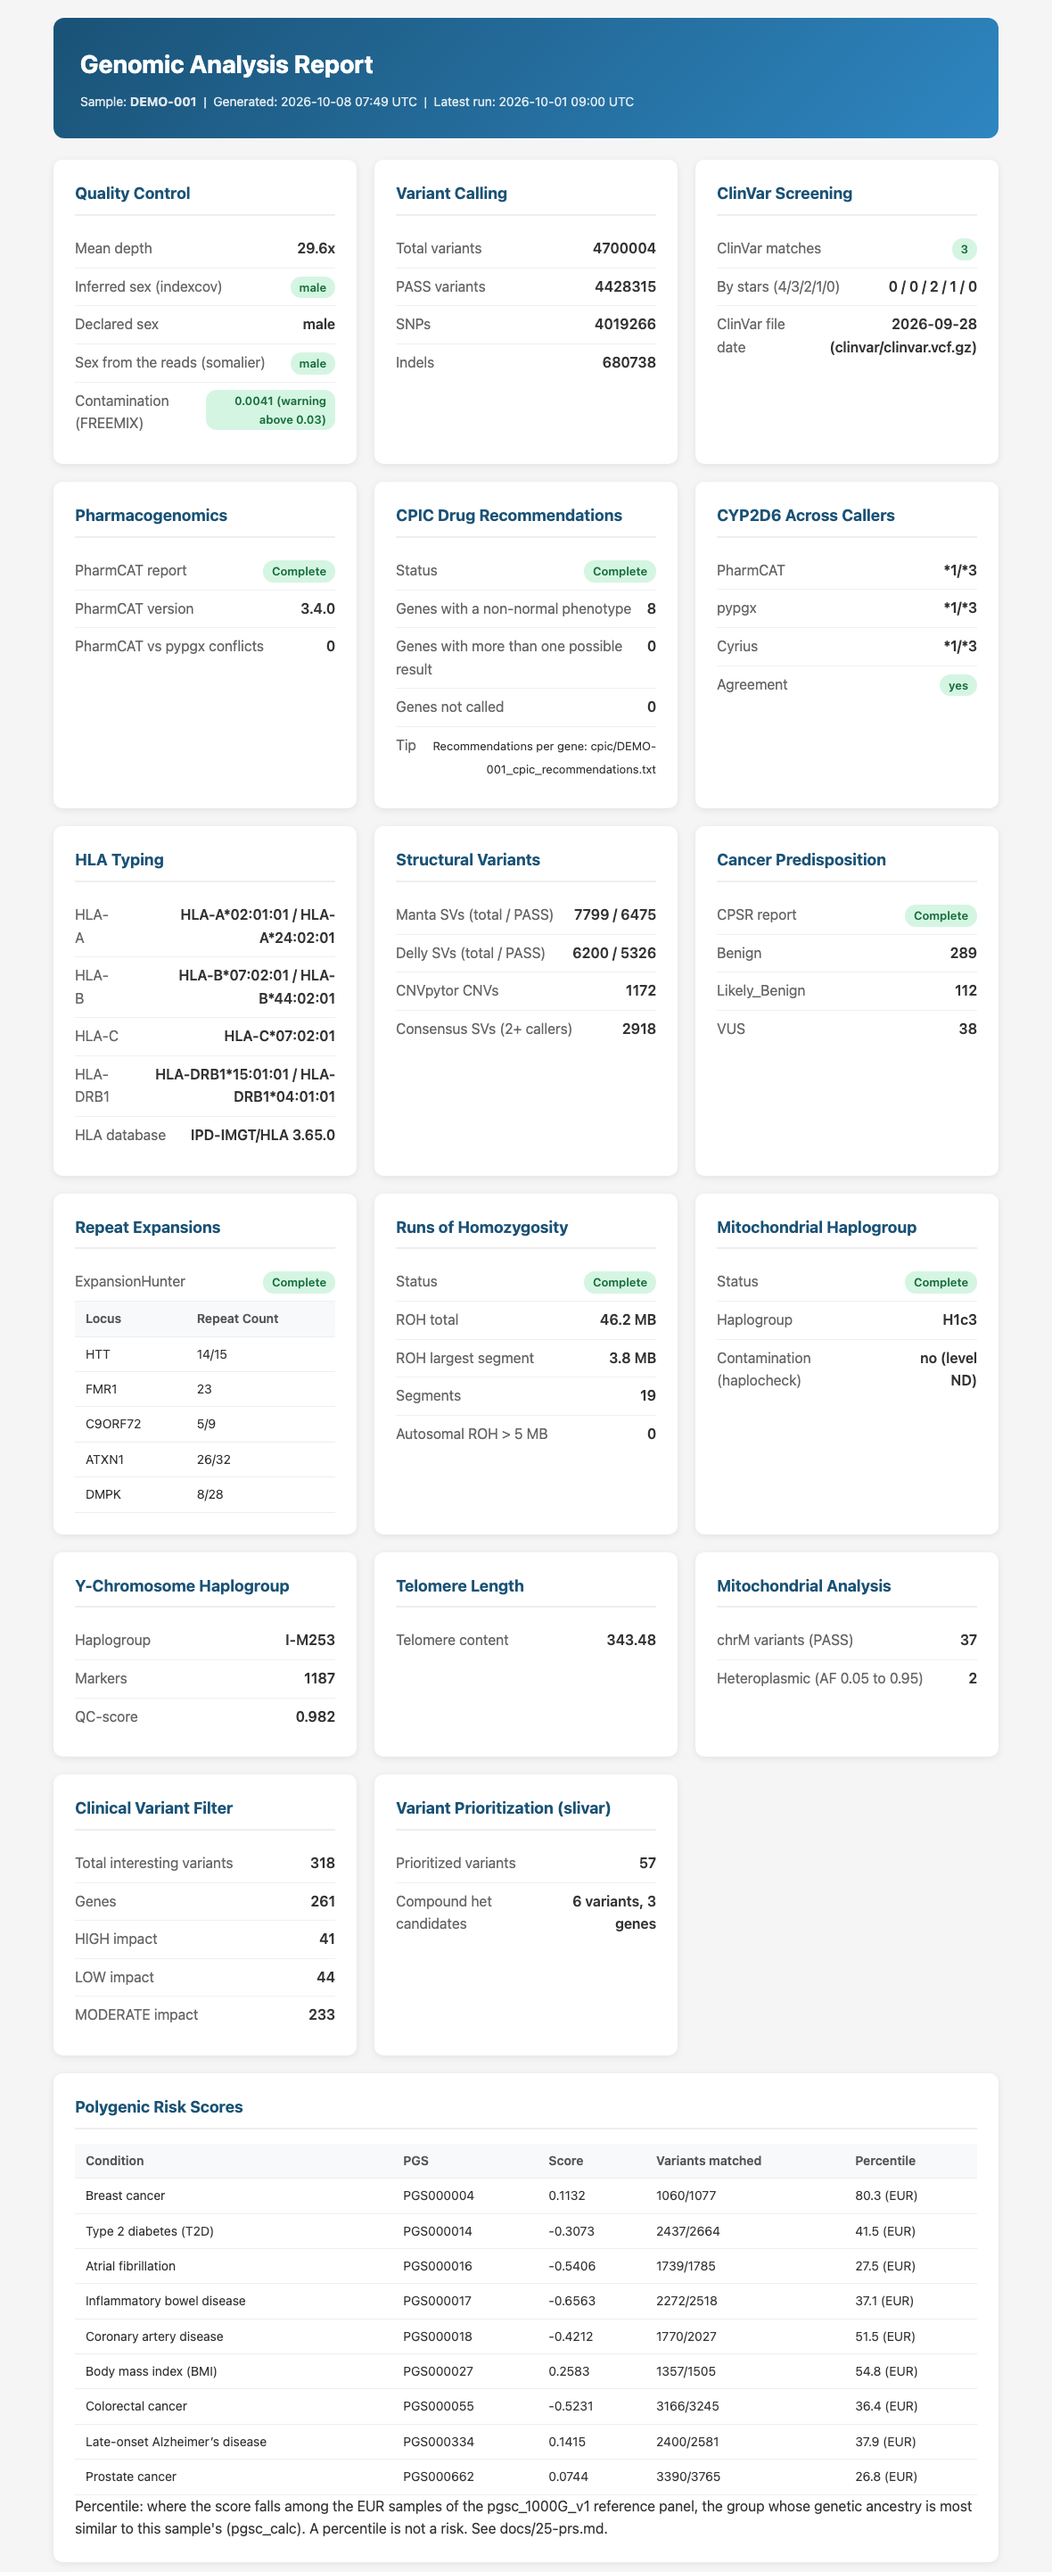
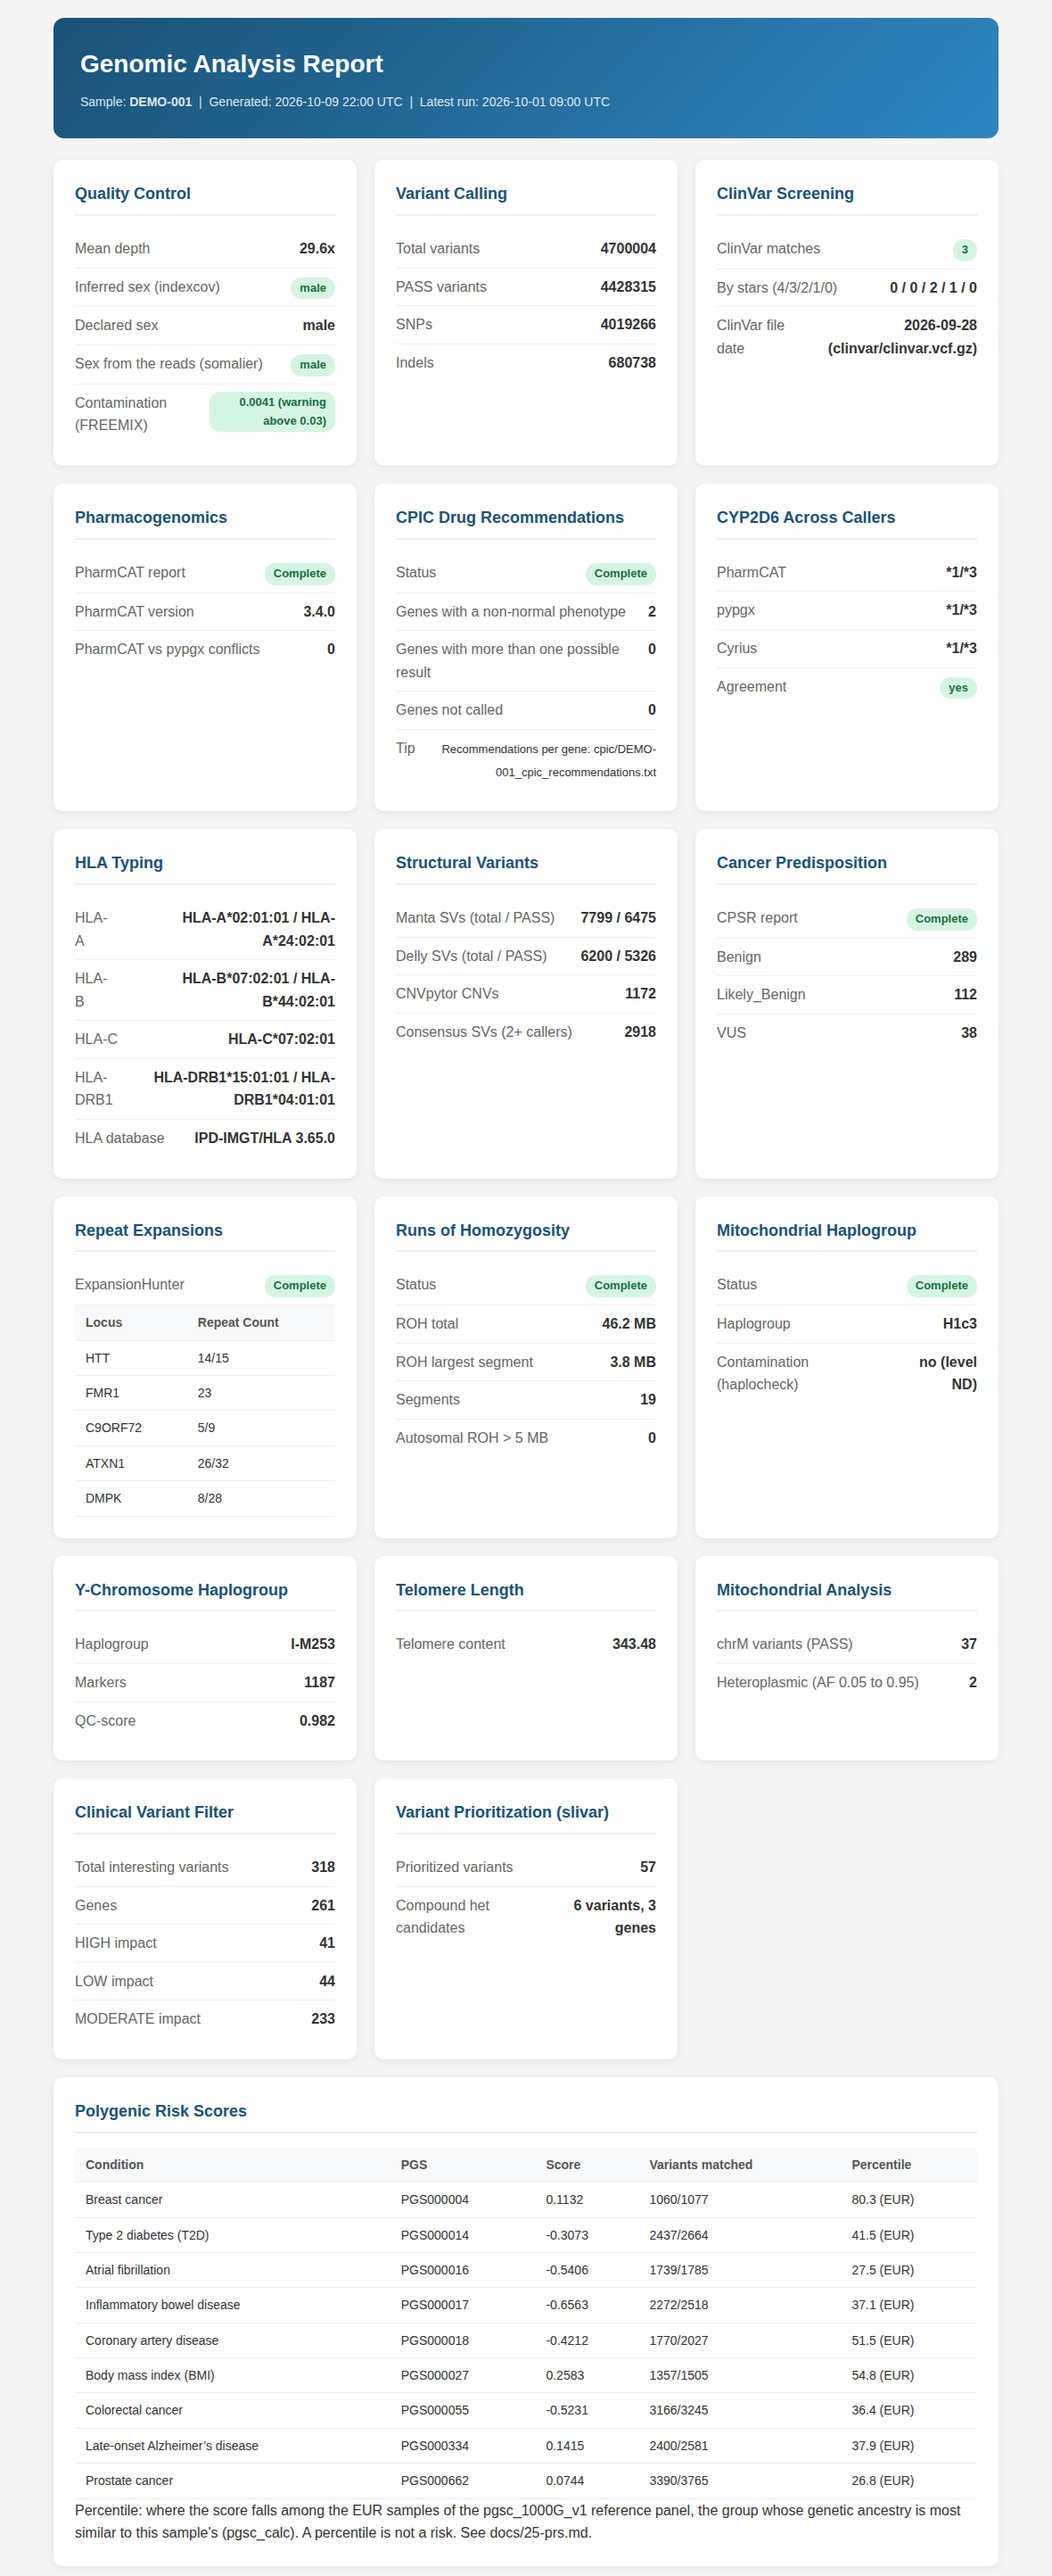
docs(report): name the fifth CPIC status and retake the DEMO-001 pictures with the current count (#110)
The report pictures for the invented DEMO-001 sample were older than the CPIC parser: the CPIC card showed 8 non-normal genes where the parser now counts 2, and CLAUDE.md named only four of the five gene statuses.
A new Demo pictures workflow retakes the three pictures on a GitHub-hosted runner and uploads them as an artifact; the retake script now retries image pulls and can install Chromium's Linux libraries.
The pictures are retaken from that workflow, the caption no longer warns that the count is outdated, and CLAUDE.md names unclassified as the fifth status.

diff --git a/CLAUDE.md b/CLAUDE.md
@@ -153,7 +153,7 @@ Change its line in `versions.env`, plus the coupled data variable its comment na
 ### PharmCAT 3.x (pinned: 3.4.0)
 - **Two-step workflow**: Preprocessor (`pharmcat_vcf_preprocessor` with `-refFna`) then main jar (`pharmcat.jar`). NOTE: since 3.0 the preprocessor script lost its `.py` extension and the Python package was renamed `preprocessor` → `pcat`. The old `-refFasta` flag is long gone.
 - Preprocessor outputs `.preprocessed.vcf.bgz` (NOT `.vcf`).
-- **3.x JSON changes vs 2.15.x**: `wildtypeAllele` → `referenceAllele`; the HTML report is **no longer emitted unless `-reporterHtml` is passed explicitly**. The `genes` map may be flat (`{gene -> data}`) or nested (`{source -> {gene -> data}}`). `sourceDiplotypes` (or `recommendationDiplotypes`) carry `allele1`/`allele2` objects with a `.name`. Both CPIC consumers (`scripts/27-cpic-lookup.sh` and `modules/local/cpic_lookup`) run one parser, `bin/pgx_parse.py`: it **auto-detects both shapes**, gives each gene a status (`normal`, `non-normal`, `ambiguous` when the possible diplotypes have different phenotypes, `not called`) and **fails loud**: a recognized report yielding zero genes is reported as a parse failure, never "all genes were successfully called". Guarded by `tests/test_cpic_parser.py` on real 3.2.0 and 3.4.0 reports of the HG002 fixture, `tests/fixtures/pharmcat/report-<version>.json`.
+- **3.x JSON changes vs 2.15.x**: `wildtypeAllele` → `referenceAllele`; the HTML report is **no longer emitted unless `-reporterHtml` is passed explicitly**. The `genes` map may be flat (`{gene -> data}`) or nested (`{source -> {gene -> data}}`). `sourceDiplotypes` (or `recommendationDiplotypes`) carry `allele1`/`allele2` objects with a `.name`. Both CPIC consumers (`scripts/27-cpic-lookup.sh` and `modules/local/cpic_lookup`) run one parser, `bin/pgx_parse.py`: it **auto-detects both shapes**, gives each gene a status (`normal`, `non-normal`, `ambiguous` when the possible diplotypes have different phenotypes, `not called`, `unclassified` when a called gene's phenotype says neither normal nor changed function, listed without drug guidance and not counted) and **fails loud**: a recognized report yielding zero genes is reported as a parse failure, never "all genes were successfully called". Guarded by `tests/test_cpic_parser.py` on real 3.2.0 and 3.4.0 reports of the HG002 fixture, `tests/fixtures/pharmcat/report-<version>.json`.
 - Pipeline pinned to **3.4.0** (3.4.0 still bundles vcf-parser 0.3.1, so the `##` header rewrite in step 7 and the module stays). Before bumping, revalidate steps 7 and 27 end-to-end against a known sample — JSON structure and preprocessor flags change between major versions — and capture the new version's `report.json` as a parser fixture beside the others (a row in the test's `REAL_REPORTS`).
 
 ### pgsc_calc (PRS and ancestry, steps 25 and 26)

diff --git a/docs/24-html-report.md b/docs/24-html-report.md
@@ -64,7 +64,7 @@ A step that is skipped or fails leaves the previous run's output on disk. When `
 
 <figure markdown="span">
   ![The step 24 HTML report: a header with the sample name, seventeen cards of counts and statuses, then the polygenic risk scores table](images/demo-html-report.png){ loading=lazy }
-  <figcaption>The report for DEMO-001, an invented sample. Every number is made up. The picture stops above the CPIC gene table, so the tables that list genes (the CPIC genes and the ClinVar hits) and the disclaimer are not shown. The picture is older than the current CPIC count: its CPIC card says 8 genes with a non-normal phenotype, where the parser now counts 2 for DEMO-001 (CYP2D6 and NAT2) and lists the other 6 as called genes without a function phenotype.</figcaption>
+  <figcaption>The report for DEMO-001, an invented sample. Every number is made up. The picture stops above the CPIC gene table, so the tables that list genes (the CPIC genes and the ClinVar hits) and the disclaimer are not shown.</figcaption>
 </figure>
 
 ## Runtime
